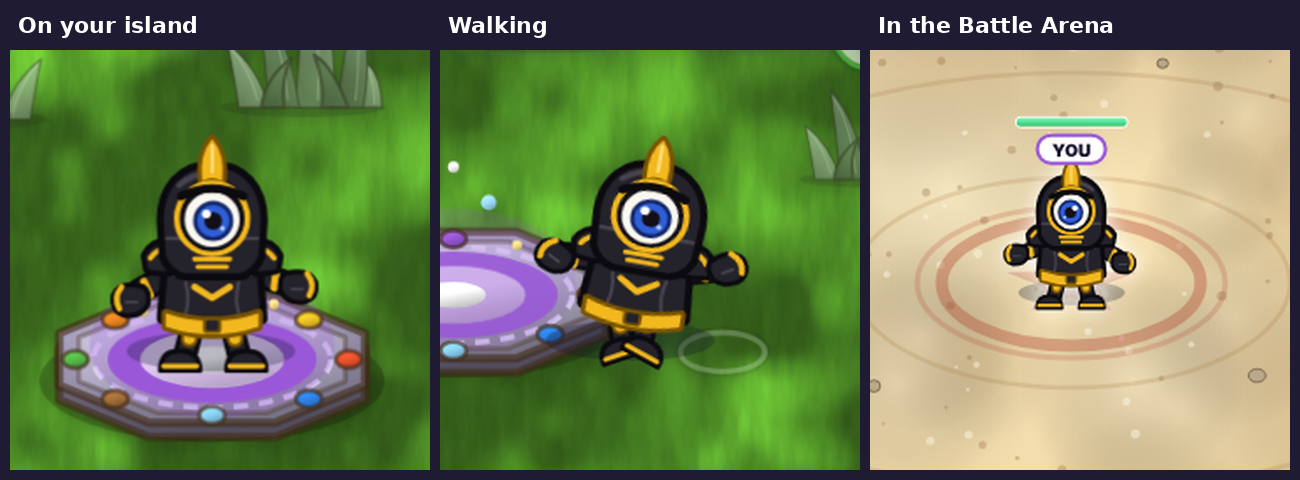
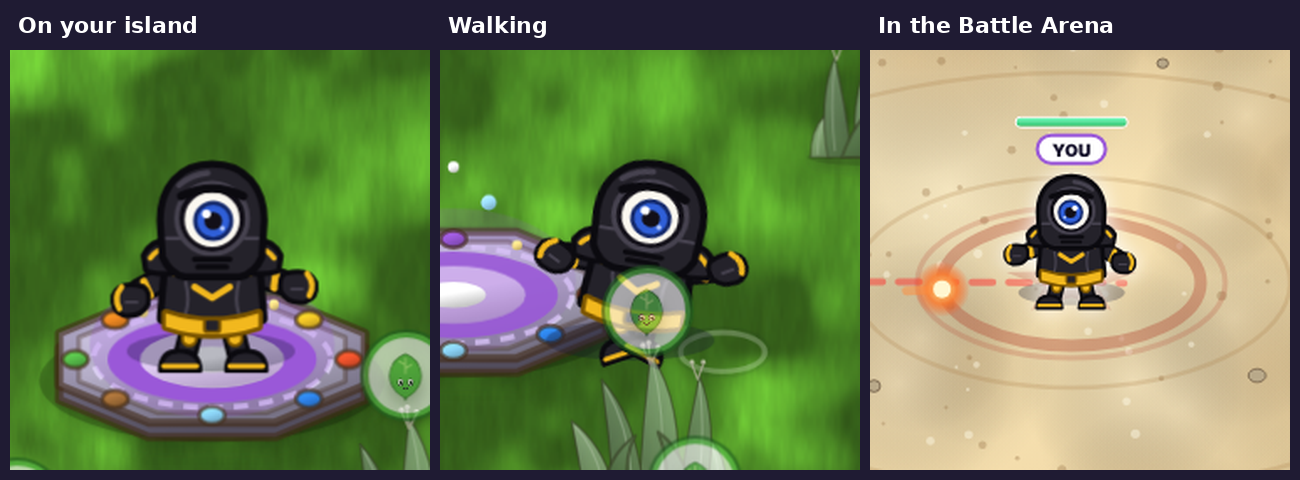
Preview: one-eyed soldier with an all-black helmet
Claude-Session: https://claude.ai/code/session_01VLdLc5ictpYJybhtPWKJ3B

diff --git a/src/previews/cyclops.js b/src/previews/cyclops.js
@@ -1,4 +1,4 @@
-/* One-eyed soldier (no name yet): an original pal in the owner's black-and-gold colours. An all-black full helmet with a gold crest,
+/* One-eyed soldier (no name yet): an original pal in the owner's black-and-gold colours. An all-black full helmet,
    one big blue eye showing through a round opening, a mouth grille, black plate armour with gold trim, and big gauntlet fists
    (Undead, melee, Giant). (preview only) */
 var CYC = { K: '#24222a', KD: '#0b0a0f', KL: '#46424f', Y: '#f2b81e', YD: '#7a5400', E: '#2f5fd8', ED: '#13286a' };
@@ -24,18 +24,15 @@ function cycArt(){
     /* all-black full helmet */
     outlined('<path d="M50 12C64 12 72 22 72 36L71 52Q68 59 62 60L38 60Q32 59 29 52L28 36C28 22 36 12 50 12Z"/>', C.K, C.KD) +
     '<path d="M35 20Q41 15 48 14.5" fill="none" stroke="' + C.KL + '" stroke-width="2.6" stroke-linecap="round"/>' +
-    /* gold crest running over the top of the helmet */
-    outlined('<path d="M45.5 18Q44 6 50 -1Q56 6 54.5 18Q50 15.5 45.5 18Z"/>', C.Y, C.YD, 2) +
-    '<path d="M50 2V14" stroke="#ffe08a" stroke-width="1.4" stroke-linecap="round"/>' +
     '<path d="M29.5 44H35M70.5 44H65" stroke="' + C.KL + '" stroke-width="1.8" stroke-linecap="round"/>' +
     /* round opening with the one big eye */
-    '<circle cx="50" cy="35" r="16" fill="' + C.KD + '" stroke="' + C.Y + '" stroke-width="2.6"/>' +
+    '<circle cx="50" cy="35" r="16" fill="' + C.KD + '" stroke="' + C.KL + '" stroke-width="2.4"/>' +
     '<circle cx="50" cy="35.5" r="13.4" fill="#fbf8f0" stroke="' + O + '" stroke-width="1.8"/>' +
     '<circle cx="50.5" cy="36.2" r="8.2" fill="' + C.E + '" stroke="' + C.ED + '" stroke-width="1.8"/><circle cx="50.5" cy="36.2" r="4" fill="' + O + '"/>' +
     '<circle cx="47.4" cy="33" r="2" fill="#fff"/><circle cx="54.6" cy="39.6" r="1.1" fill="#bcd0ff"/>' +
     '<path d="M36 25Q50 18 64 25" fill="none" stroke="' + C.KD + '" stroke-width="3.8" stroke-linecap="round"/>' +
     /* mouth grille */
-    '<path d="M42 53.5H58M43.5 57H56.5" stroke="' + C.Y + '" stroke-width="2.2" stroke-linecap="round"/>');
+    '<path d="M42 53.5H58M43.5 57H56.5" stroke="' + C.KD + '" stroke-width="2.4" stroke-linecap="round"/>');
 }
 function cycBack(c){
   var C = CYC;

diff --git a/HANDOFF.md b/HANDOFF.md
@@ -15,7 +15,7 @@ Portal Pals is a single-file browser game: build an island, pick pals, play mini
 | `src/i18n/` | Serbian translation. `sr2.py` = exact strings, `sr3.py` = templates (`§` = any text, `§1`/`§2` numbered). `build.py` injects the dictionary into the game file. |
 | `src/mkx.py` | Builds the test pages in `src/mock2/` (adds `window.__df`, `__th`, `__st`, … hooks). |
 | `src/mock2/` | Playwright test harness with a mock Firebase (`server.js` simulates Firestore rules, `rt.js` the Realtime Database). `t*.js` are tests. |
-| `src/previews/` | Drawings for special pals. Sir Rattlebones, Talon (eagle) and the undead dragon are **now in the game** as the Skeleton Knight, Sky Eagle and Grave Dragon looks (see Special pals); Puddle is still **not added**; the robot (`mecha.js`) is now in the game as the Wheel Bot. Also previewed, not added: an original one-eyed soldier in black and gold (`cyclops.js`, `cyclops_preview.png`: all-black full helmet with a gold crest, one big blue eye in a gold-rimmed round opening, mouth grille, black plate armour with gold trim, gauntlet fists; Undead, melee, Giant). The owner's own drawing of a giant eyeball on a black-and-gold body was declined as an Eye-Brawl (Skylanders) look-alike, and so was a hooded/eye-only version; the helmet keeps it distinct. To preview a drawing in game: insert its file before `var PAL_BODIES = {` in a temporary copy, add an entry, build the mock pages, and screenshot (see how the eagle/robot previews were made). Originally: Sir Rattlebones (skeleton knight, Undead, melee) and Puddle (chubby purple baby dragon with gold horns and teal wings, Magic, ranged), and Talon (placeholder name; the owner's own drawing of a blue eagle with an arm cannon, Air, ranged, with a 3-feather crest and glowing cannon core added; the cannon replaces the wand as his weapon). Also an unnamed slim undead purple dragon designed here (dark swept-back horns, bone ridge spikes, round snout, glowing cyan eyes, torn wings with holes, bony tail with a ghost flame, throws a ghost flame; Undead, ranged). The owner's own purple dragon drawing was declined as a Cynder look-alike, so this one was designed from scratch; an earlier cloud/storm version was dropped at the owner's request. The drawing functions are in `knight.js` / `dragon.js` / `eagle.js` / `wyrm.js`; `eagle_preview.png` / `wyrm_preview.png` show them in game. |
+| `src/previews/` | Drawings for special pals. Sir Rattlebones, Talon (eagle) and the undead dragon are **now in the game** as the Skeleton Knight, Sky Eagle and Grave Dragon looks (see Special pals); Puddle is still **not added**; the robot (`mecha.js`) is now in the game as the Wheel Bot. Also previewed, not added: an original one-eyed soldier in black and gold (`cyclops.js`, `cyclops_preview.png`: all-black full helmet (no gold on it), one big blue eye in a round opening, black mouth grille, black plate armour with gold trim, gauntlet fists; Undead, melee, Giant). The owner's own drawing of a giant eyeball on a black-and-gold body was declined as an Eye-Brawl (Skylanders) look-alike, and so was a hooded/eye-only version; the helmet keeps it distinct. To preview a drawing in game: insert its file before `var PAL_BODIES = {` in a temporary copy, add an entry, build the mock pages, and screenshot (see how the eagle/robot previews were made). Originally: Sir Rattlebones (skeleton knight, Undead, melee) and Puddle (chubby purple baby dragon with gold horns and teal wings, Magic, ranged), and Talon (placeholder name; the owner's own drawing of a blue eagle with an arm cannon, Air, ranged, with a 3-feather crest and glowing cannon core added; the cannon replaces the wand as his weapon). Also an unnamed slim undead purple dragon designed here (dark swept-back horns, bone ridge spikes, round snout, glowing cyan eyes, torn wings with holes, bony tail with a ghost flame, throws a ghost flame; Undead, ranged). The owner's own purple dragon drawing was declined as a Cynder look-alike, so this one was designed from scratch; an earlier cloud/storm version was dropped at the owner's request. The drawing functions are in `knight.js` / `dragon.js` / `eagle.js` / `wyrm.js`; `eagle_preview.png` / `wyrm_preview.png` show them in game. |
 
 Test version (claude.ai artifact, owner's private test page): https://claude.ai/artifact/8Lgy5MWmdkUGTQynb3C2G2. Publish `src/portal-pals-play.html` to that URL after each change.
 
